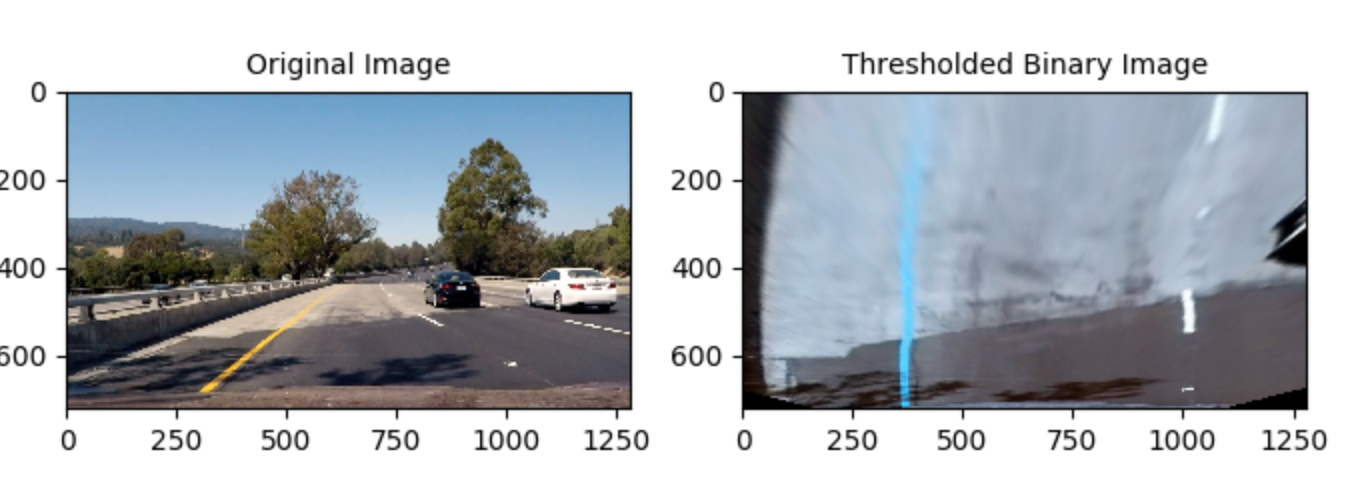
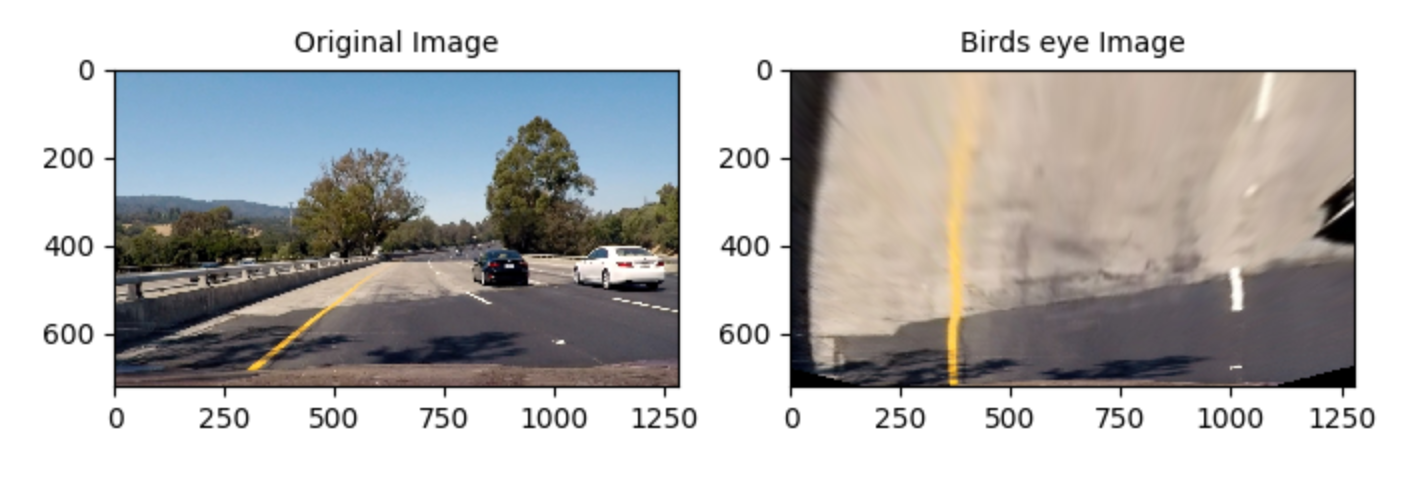
more typo fixing + adding video sample gif

diff --git a/src/test_birds_eye_view.py b/src/test_birds_eye_view.py
@@ -3,7 +3,7 @@ import matplotlib.pyplot as plt
 
 from src.utils.image_pipeline import undistort, birds_eye_view, pipeline
 
-test_img = cv2.imread('../test_images/test8.jpg')
+test_img = cv2.imread('../test_images/test4.jpg')
 
 output_image, unwarped, M, Minv, _, _ = birds_eye_view(undistort(test_img))
 # cv2.imwrite('../output_images/test8_birdseye.jpg', output_image)
@@ -11,6 +11,6 @@ output_image, unwarped, M, Minv, _, _ = birds_eye_view(undistort(test_img))
 f, (ax1, ax2) = plt.subplots(1, 2, figsize=(8, 4))
 ax1.imshow(cv2.cvtColor(test_img, cv2.COLOR_BGR2RGB))
 ax1.set_title('Original Image', fontsize=10)
-ax2.imshow(output_image, cmap="gray")
-ax2.set_title('Thresholded Binary Image', fontsize=10)
+ax2.imshow(cv2.cvtColor(output_image, cv2.COLOR_BGR2RGB))
+ax2.set_title('Birds eye Image', fontsize=10)
 plt.show()

diff --git a/writeup.md b/writeup.md
@@ -24,6 +24,8 @@ The goals / steps of this project are the following:
 [image5]: ./output_images/pipeline_comparison.jpg "threshold+ birdseye"
 [image6]: ./output_images/lanes_comparison.jpg "lane detection"
 [image7]: ./output_images/highlighted_comparison.jpg "lane highlight"
+[image8]: ./output_images/video_preview.gif "video preview"
+
 
 ## [Rubric](https://review.udacity.com/#!/rubrics/571/view) Points
 
@@ -70,7 +72,8 @@ Check also the method `thresholded_binary_image` in [utils/image pipeline.py](sr
 
 I did a lof of testing around this step, because it's the more important of the whole pipeline. If we manage to filter out everything except for the lane lines, the rest of the pipeline will work seamlessly.
 
-After doing some research I decided to attempt combinig ALL the learn filters, I used the HSL color space to filter the **white** and **yellow** from the images, this will give us a good enough threshold, working 90% of the time. But in order to detect the lines the remaining 10% of the time, I did a combination of X/Y Sobel threshold, Absolute Sobel Threshold and Angular Sobel threshold (the X Threshold gives the best results, the rest are just there to slightly improve the results).
+After doing some research I decided to attempt combinig ALL the learnt filters, I used the HSL color space to filter the **white** and **yellow** from the images, this will give us a good enough threshold, working 90% of the time.  
+But in order to detect the lines the remaining 10% of the time, I extracted the L in LAB colors spaced and did a combination of X/Y Sobel threshold, Absolute Sobel Threshold and Angular Sobel threshold (the X Threshold gives the best results, the rest are just there to slightly improve the results).
 
 After tweaking the values for a long time attempting to get the best results in all the test images, this is the result I obtained:
 
@@ -83,7 +86,7 @@ You can notice there's still some noise on the lanes, this was necessary in orde
 I created the [test birds eye view.py](src/test_birds_eye_view.py) to be able to see how this perspective transform affects the test images. 
 Check also the function `birds_eye_view` in [utils/image pipeline.py](src/utils/image_pipeline.py) to see the transformation shapes I used.
 
-This code is very simple, I just carefuly found the position of 4 pixels in the image that formed a parallelogram contaning the lane and translated them to a fixed-shaped rectangle using the function `cv2.getPerspectiveTransform` to generate the tranformation matrix (I also generated the inverse matrix in order to unwarp the image for lane projection later.)
+This code is very simple, I just carefuly found the position of 4 pixels in a straing-lane image that formed a parallelogram contaning the lane and translated them to a fixed-shaped rectangle using the function `cv2.getPerspectiveTransform` to generate the tranformation matrix (I also generated the inverse matrix in order to unwarp the image for lane projection later.)
 
 The pixel positions I used are:
 
@@ -106,17 +109,18 @@ And here is the same transformation applied to a thresholded image (I also drew 
 I created the [test lane detection.py](src/test_lane_detection.py) to be able to see how the lane detectionworks on test images. 
 Check also [utils/lane detection.py](src/utils/lane_detection.py) to see the full lane detection code.
 
-This part, even though it's not the most crucial for lane detection, was the hardes to understand. I wen through the example code a few times and did some research online until I felt confortable enough to implement it myself.
+This part, even though it's not the most crucial for lane detection, was the hardest to understand. I wen through the example code a few times and did some research online until I felt confortable enough to implement it myself.
 
 I didn't change much how the example code was working, I extracted the relevant utility functions (like `_find_window_centroids`) and used them inside the `detect_lanes` functions.
-I decided to use a window of 70x90 with a margin of 120, in order to detect with accuracy the right white lane (not continuous). Because of the big height of the window, we will find fewer points to generate the polynomials, but in exchange we will filter out a lot of the noise from the thresholded images.
+I decided to use a window of 70x90 with a margin of 120, in order to detect with accuracy the right white lane (not continuous).  
+Because of the big height of the window, we will find fewer points to generate the polynomials, but in exchange we will filter out a lot of the noise from the thresholded images.
 
 I also added a vertical threshold of 2000 / window_dims[1] to avoid the big blobs (like when the lane is white)
 
 My first approach was very simple, it wasn't until the end that I added three things to improve the detected lanes (and they work very well):
 - First of all, as sugested in the excercice, I saved the last polynomial detected to speed up the following calculations (because we already know were the lane is, we can use this to look for the lane in the next frame).
 - Second I did some error discrimination: if the radius detected from the 2 lines was very different (an error of 180% or more) I discard this reading and use the latests correct lane reading for following detections.
-- Finally, I decided to smooth the detected lane by doing an average of the correctly detected lane in the last 4 frames (asuming that the video has 30 frames per second, this adds a small lag of 130ms so if the card did a very unexpected turn, it will take this time for it to adapt to the road, but for this exercice it's ok)
+- Finally, I decided to smooth the detected lane by doing an average of the correctly detected lane in the last 4 frames (asuming that the video has 30 frames per second, this adds a small lag of 130ms so if the car did a very unexpected movement, it will take that long for it to adapt again to the road, but for this exercice it's ok)
 
 Here's an example of the detected lanes in a test image:
 ![alt text][image6]
@@ -131,7 +135,7 @@ I didn't change much from the proposed implementation. I used the proposed corre
 
 Check the method `_lane_shape ` in [utils/lane detection.py](src/utils/lane_detection.py) to see the full implementation of how the lane polygon is generated.
 
-See also [test highlight lane.py](src/test_highlight_lane.py) and  and [utils/lane detection.py](src/utils/highlight_lane.py) to a complete pipeline of how the lane highlight is drawn on top of the image, the steps are the following:
+See also [test highlight lane.py](src/test_highlight_lane.py) and  and [utils/hghlight lane.py](src/utils/highlight_lane.py) to see a complete pipeline of how the lane highlight is drawn on top of the image, the steps are the following:
 - Undistorting the image using `undistort(img)`
 - Extract threshold and bird-eye view using `pipeline(img)`
 - Detect the lanes and generate the highlight polygon using `detect_lanes(img)`
@@ -148,9 +152,14 @@ This is the result:
 
 #### 1. Provide a link to your final video output.  Your pipeline should perform reasonably well on the entire project video (wobbly lines are ok but no catastrophic failures that would cause the car to drive off the road!).
 
-Check the full video pipeline in [generate video.py](src/generate_video.py). In order to keep state between frames and organizing the video pipeline methods I created the class [LaneProcessor](src/utils/lane_processor.py). I also created the class [Lane](src/utils/lane.py) that keeps some of the state required for the improved lane detection and adds the helper methods for smoothing the results.
+Check the full video pipeline in [generate video.py](src/generate_video.py).
 
-Here's a [link to my video result](./output_video.mp4)
+In order to keep a state between frames and organizing the video pipeline methods I created the class [LaneProcessor](src/utils/lane_processor.py).  
+I also created the class [Lane](src/utils/lane.py) that keeps some of the state required for the improved lane detection and adds the helper methods for smoothing the results.
+
+![alt text][image8]
+
+Here's a [link to the full video result](./output_video.mp4)
 
 ---
 
@@ -160,15 +169,17 @@ Here's a [link to my video result](./output_video.mp4)
 
 As I mentioned before, I believe the key in this whole process is the binary threshold. 
 
-I achieved good enough results for the exercice video, but they won't work for the challenge videos. There might be a way to fine-tune the tresholding so it works better in different light/weather conditions, but this has it's limitations on how muche we're able to generalize and will eventually fail.
+I achieved good enough results for the exercice video, but they won't work for the challenge videos. There might be a way to fine-tune the tresholding so it works better in different light/weather conditions, but this has it's limitations on how much we're able to generalize and will eventually fail.
 
 Also, this whole image processing is very slow, if we needed to detect the lanes in real-time we would need a faster way.
 
-I believe that a possible approach for this would be using deep learning for feature extraction, if we had labeled images with the lane highlisted in various light/weather conditions we could train a model to predict where the lane is in a much optimal way that what we can achieve using only computer vision.
+I believe that a possible approach for this would be using deep learning for feature extraction, if we had labeled images in various light/weather conditions we could train a model to predict where the lane is in a much optimal way that what we can achieve using only computer vision.
 
-#### A note about the smoothing:   
-I averaged the last 4 frames to smooth the lanes, this works well for this exercice but won't work in real life because of the lag.   
-For this exercice though I noticed an interesting effect of this: when the can goes through some bumps, the image's vertical shift changes. When performing the birds-eye transform we asume the vertical shift is the same, though the lane lines should be parallel but when it changes the lanes won't be parallel anymore so the readings will be off. 
-The smoothing accidentally corrects for this, giving an actually more acurate depiction of the road if the shift hadn't changed, but because it has for a few milliseconds it seems like the highlighted lane is not quite right, when it actually is!
+##### A note about the smoothing:
+I did a simple smoothing solution, at first I thought about doing a moving average filter, but I tried this and the results were good enough. A posible improvement could be attempting to use the MAF but I don't expect the results to improve significantly.
+   
+My asolution was averaging the last 4 frames to smooth the lanes, this works well for this exercice but won't work in real life because of the lag it adds.   
+For this exercice though I noticed an interesting effect of this: when the car goes through some bumps, the image's vertical tilt changes. When performing the birds-eye transform we asume the vertical tilt is the same, so the lane lines should be parallel, but when it's not the same the lanes won't be parallel anymore so the readings will be off. 
+The smoothing accidentally corrects for this vertical tilting, giving actually a more acurate depiction of the road (what we should see if there was no vertical tilting), but because of this it, sometimes, seems like the highlighted lane is not quite fitted, when it actually is!
 
 Thanks for reading, it took me a lot of effort to finish this in such a short ammount of time so a lot of assumptions might be wrong and a lot of things could be improved, if you find this by accident and have some suggestion pleas create an issue in the repo! 
